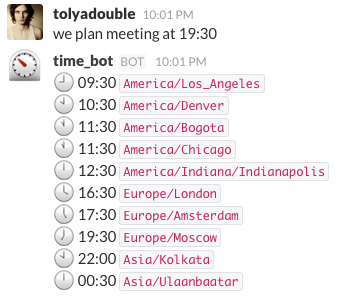
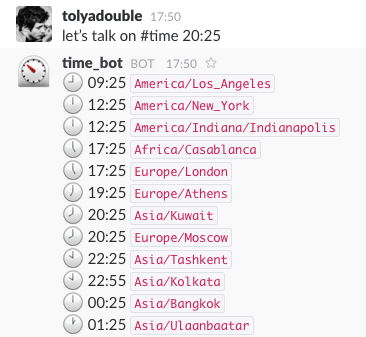
Change API

Changed region(s): [[0.0, 0.0, 0.9394, 1.0]]

diff --git a/slack-timezone-py.py b/slack-timezone-py.py
@@ -1,12 +1,12 @@
+import re
 import sys
-import requests
 import json
 import time
-import re
+import requests
 from operator import itemgetter
 from collections import OrderedDict
-from datetime import datetime, timedelta
 from slackclient import SlackClient
+from datetime import datetime, timedelta
 
 try:
     TOKEN = str(sys.argv[1])
@@ -70,19 +70,17 @@ if slack_client.rtm_connect():
                 utc_delta = int(user_object['tz_offset'] if str(user_object['tz_offset'])[:1] != '+'
                                 else str(user_object['tz_offset'])[1:])
 
-                # try to find H:M time
-                try:
-                    initial_time = datetime.strptime(re.findall(r"\d+:\d+", message_text)[0], '%H:%M')
-                except:
-                    # prevent no time spam
-                    pass
-
                 # try to find '#time' string
                 try:
                     if re.findall(r"#time", message_text)[0] == '#time':
-                        ts = float(message_object[0]['ts'])
-                        ts = (datetime.utcfromtimestamp(ts) + timedelta(seconds=utc_delta)).strftime('%H:%M')
-                        initial_time = datetime.strptime(ts, '%H:%M')
+                        # try to find H:M time
+                        try:
+                            initial_time = datetime.strptime(re.findall(r"\d+:\d+", message_text)[0], '%H:%M')
+                        except:
+                            # set current time
+                            ts = float(message_object[0]['ts'])
+                            ts = (datetime.utcfromtimestamp(ts) + timedelta(seconds=utc_delta)).strftime('%H:%M')
+                            initial_time = datetime.strptime(ts, '%H:%M')
                 except:
                     # prevent no time spam
                     pass

diff --git a/README.md b/README.md
@@ -1,6 +1,6 @@
 ## Slack Timezone Py
 
-Convert string with time to your teammates time and timezone. If someone write time like - 22:00, slackbot show all
+Convert string with time to your teammates time and timezone. If someone write time like - #time 22:00, slackbot show all
 teammates time and timezones based on localtime of sender message.
 * added feature to show timezones based on your current time, just type : #time
 
